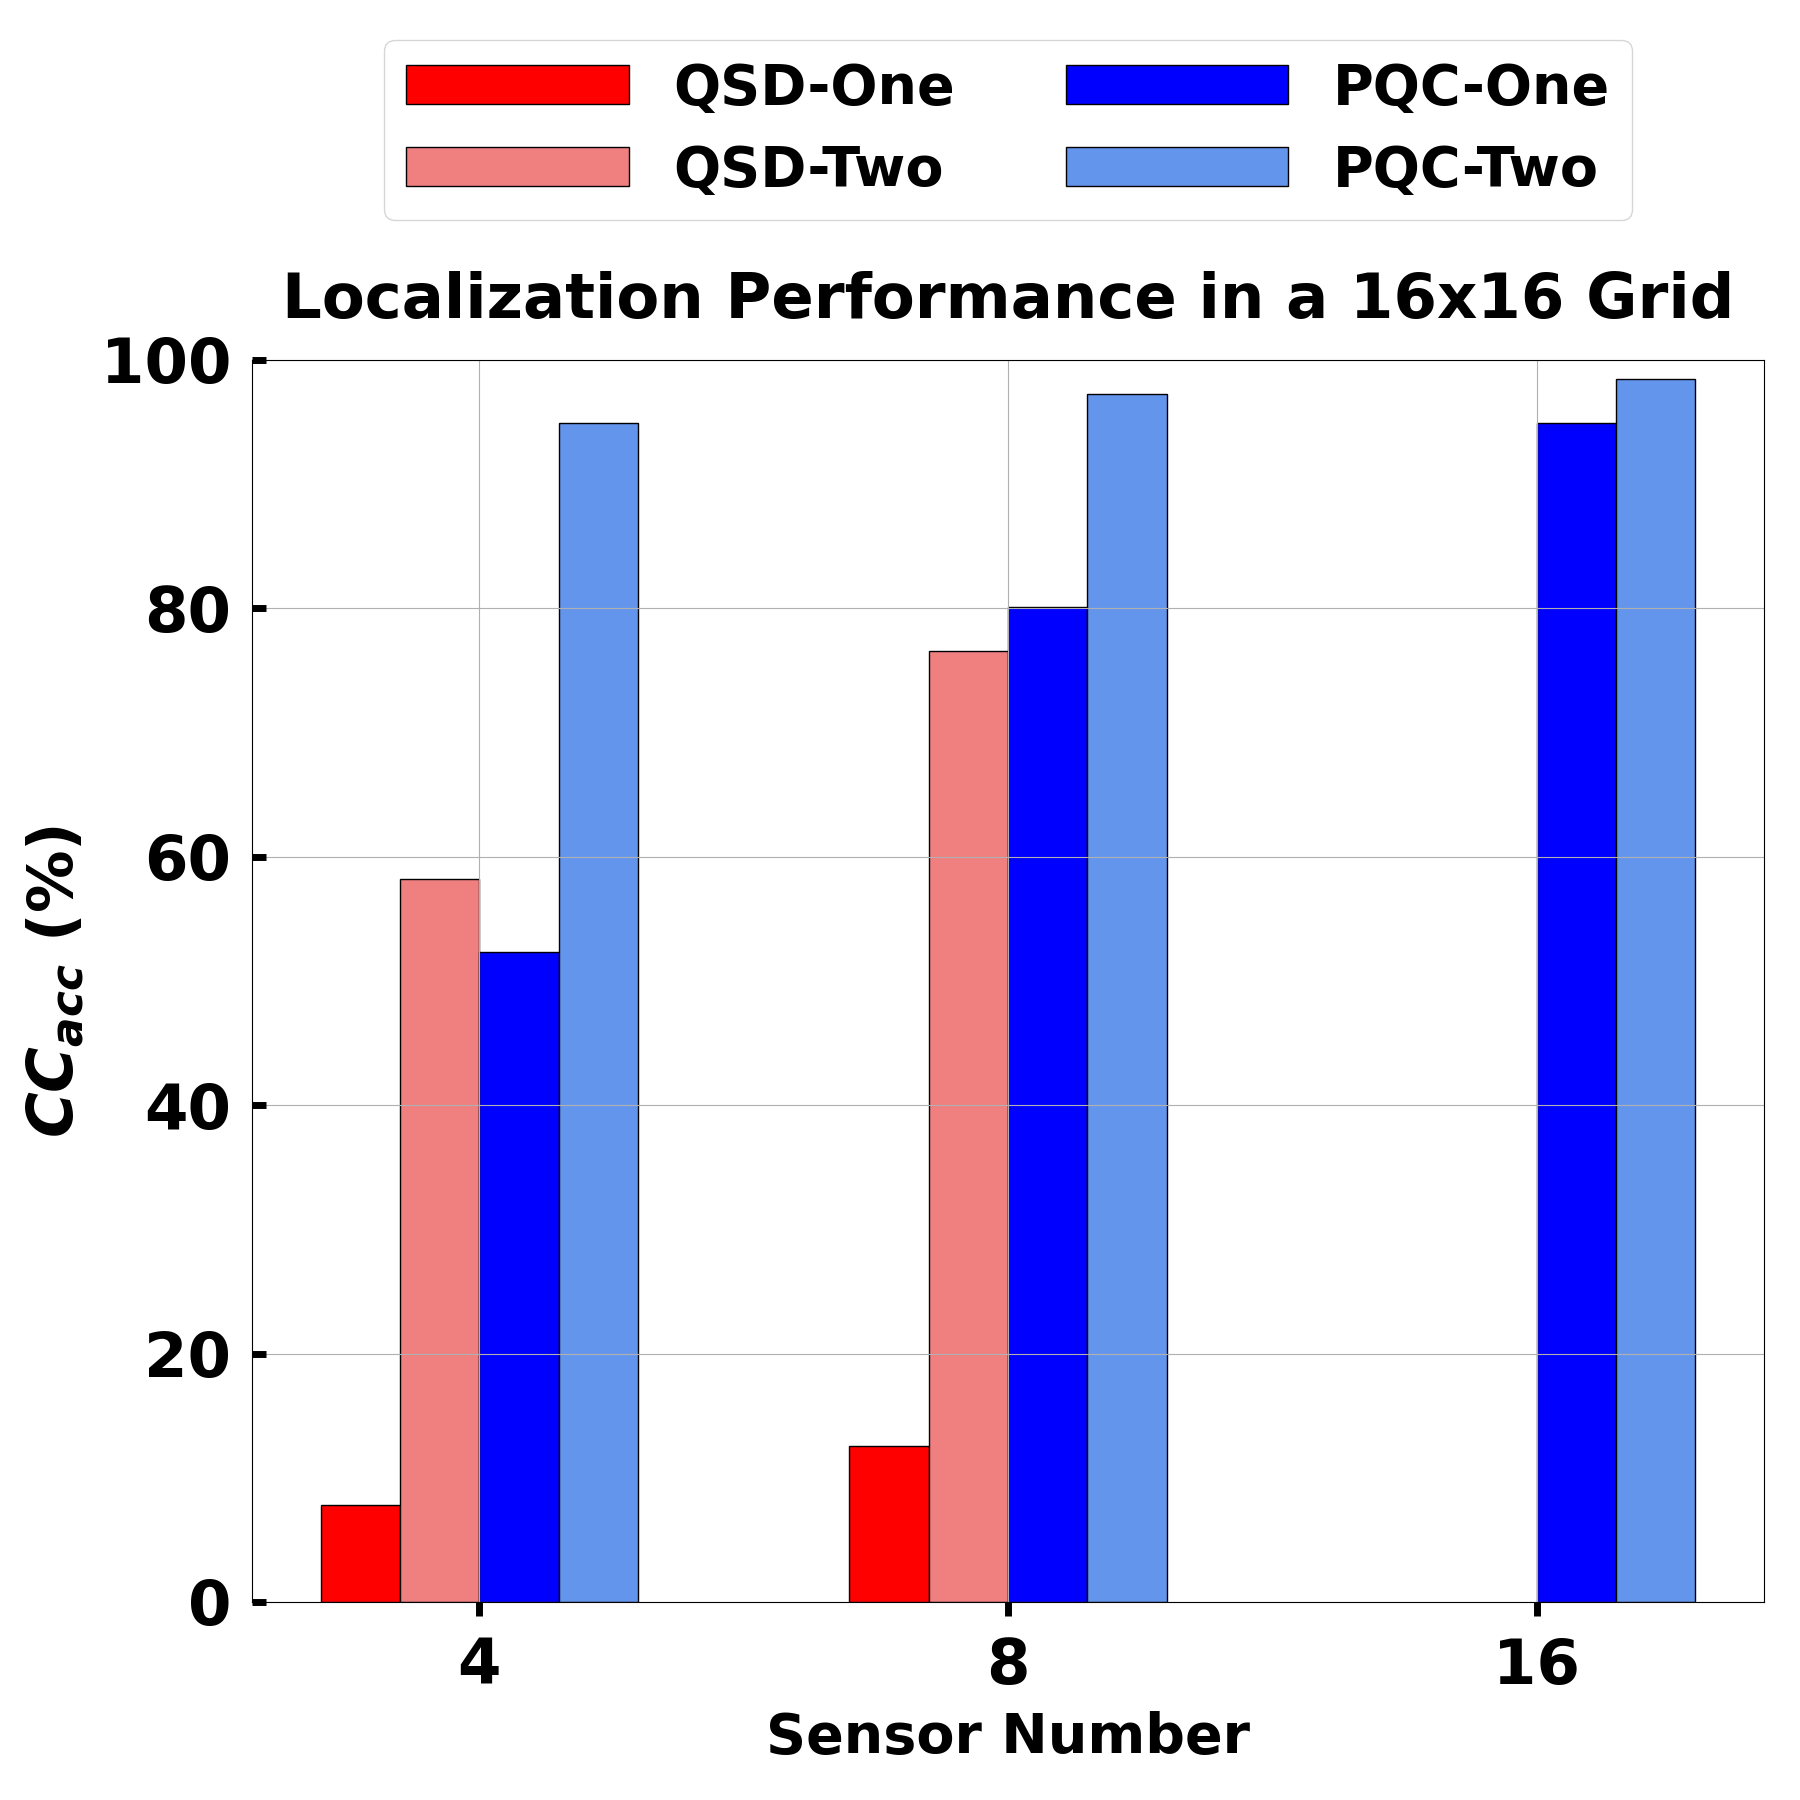
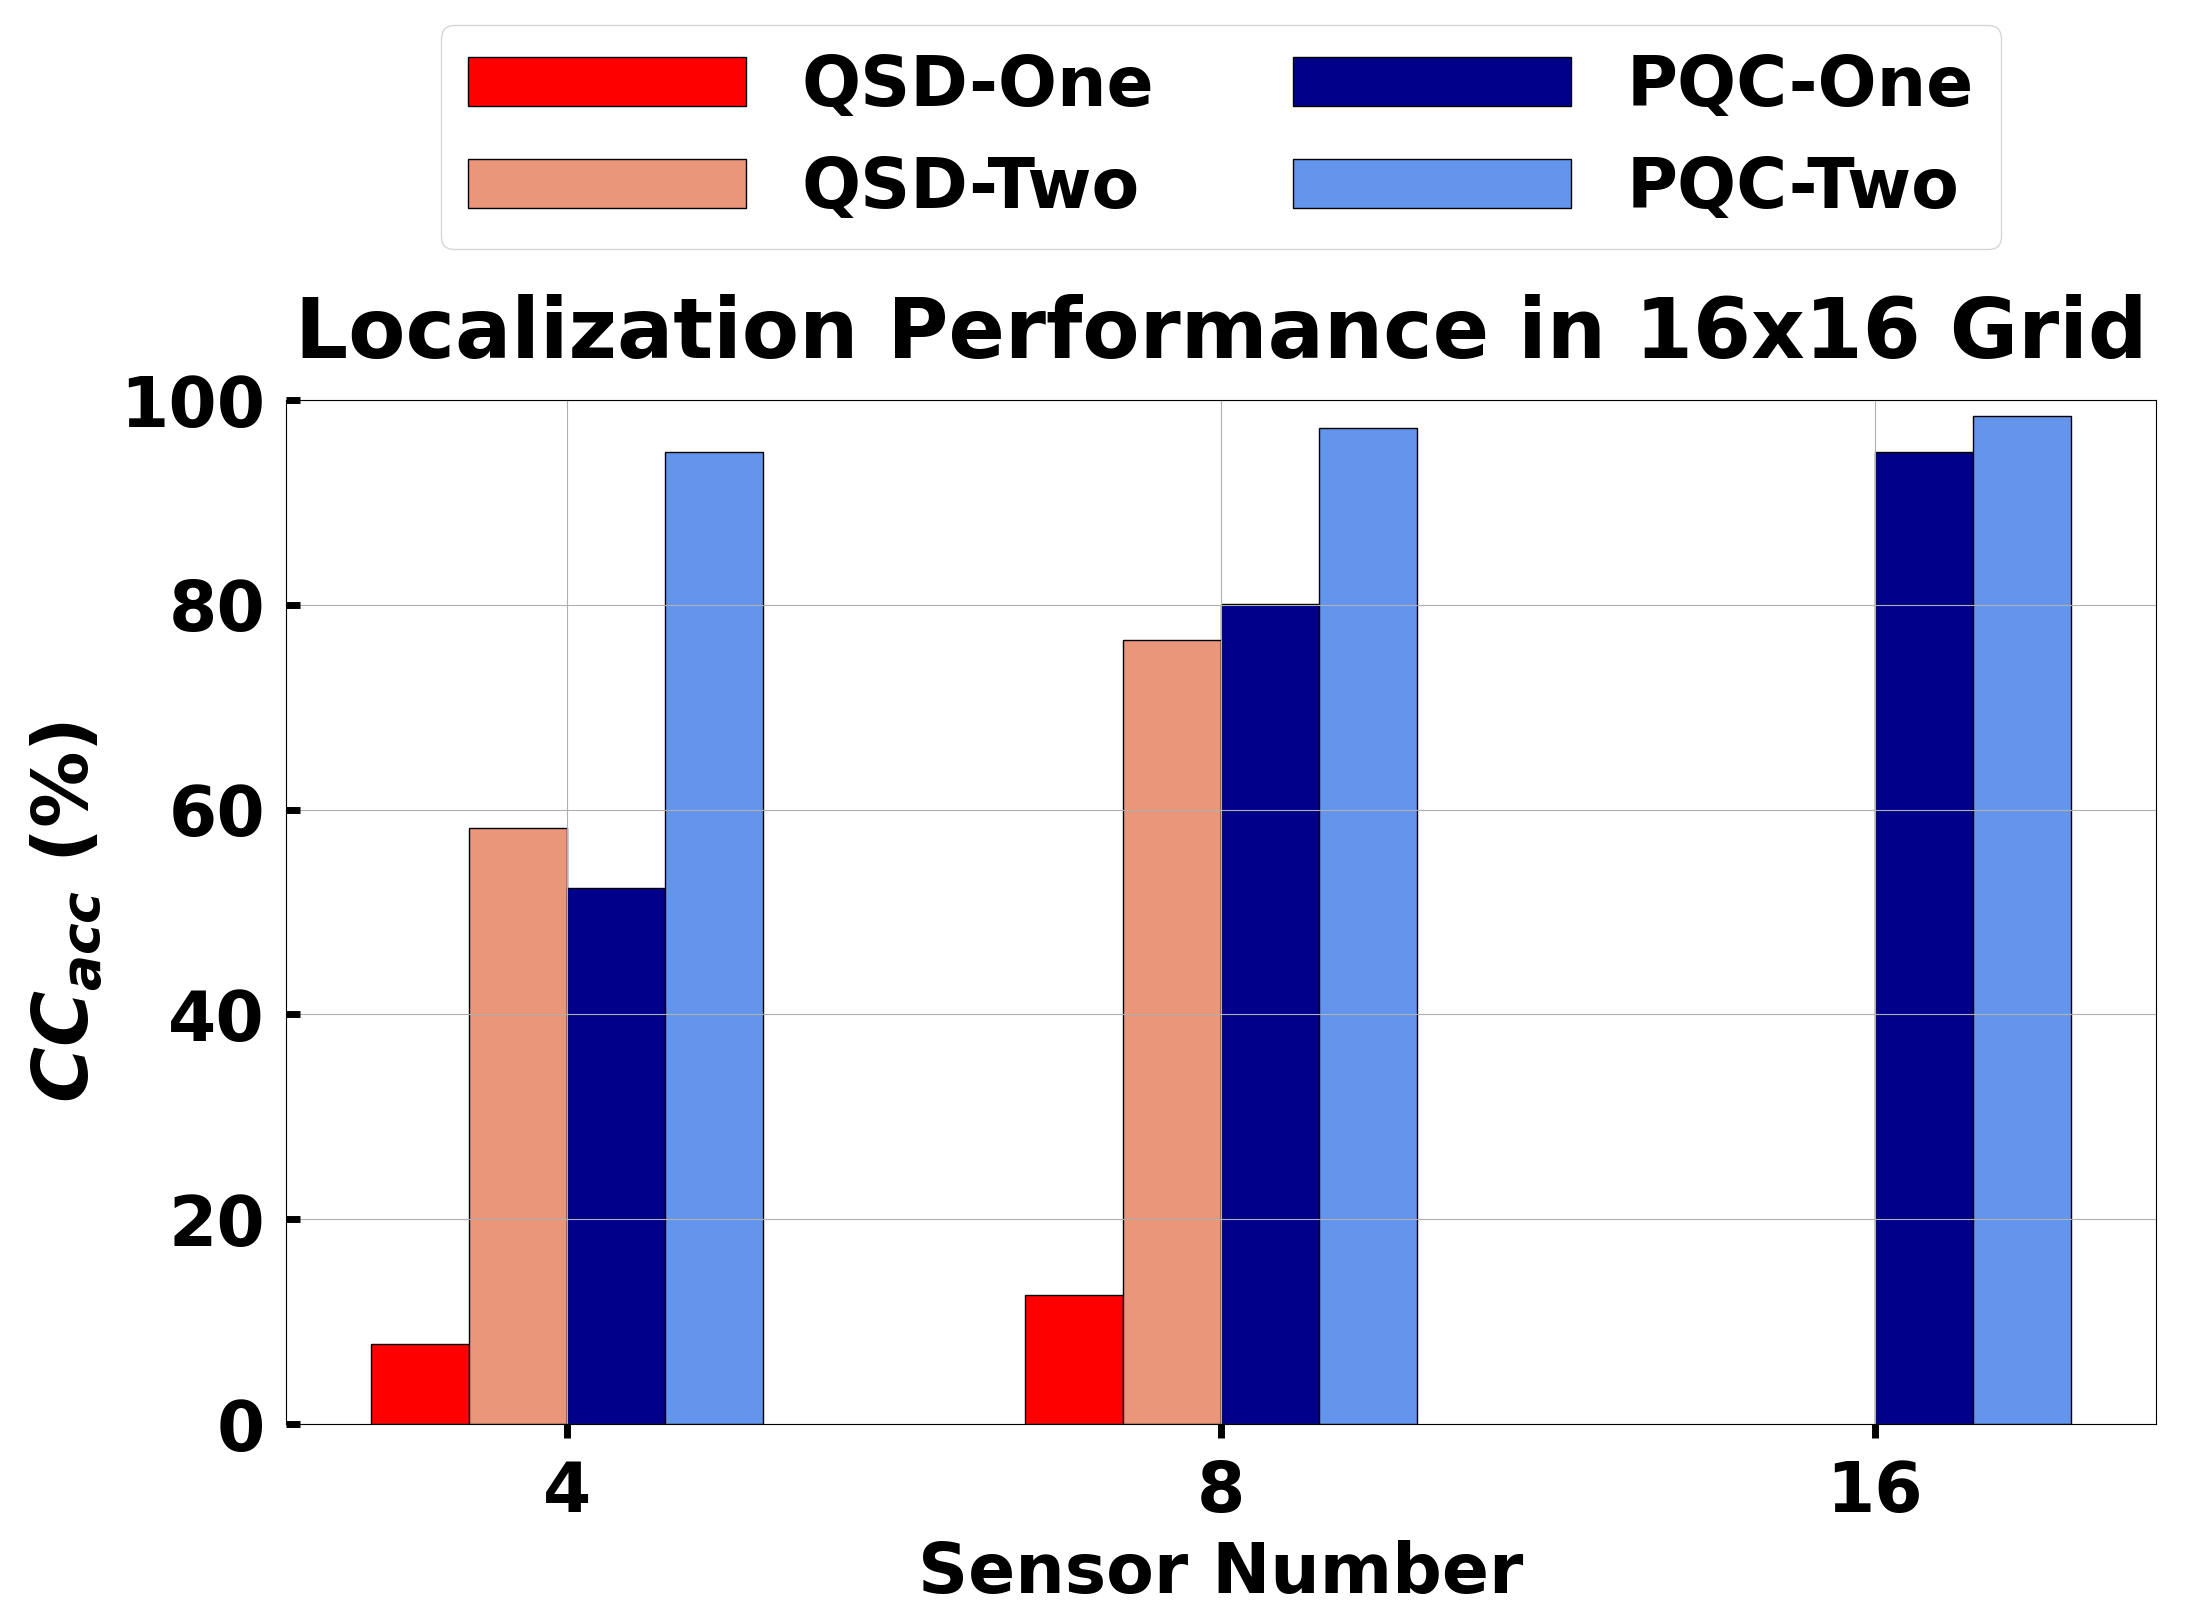
update plots

diff --git a/plot.py b/plot.py
@@ -9,20 +9,20 @@ from utility import Utility
 
 class Plot:
 
-    plt.rcParams['font.size'] = 45
+    plt.rcParams['font.size'] = 50
     plt.rcParams['lines.linewidth'] = 10
     plt.rcParams['lines.markersize'] = 20
     plt.rcParams['font.weight'] = 'bold'
     plt.rcParams['axes.labelweight'] = 'bold'
 
-    METHOD  = ['povmloc-one', 'povmloc',    'qml-r',   'qml-r-two',      'qml-c',   'qml-c-two',      'qml-ibmq_manila',        'qml-two-ibmq_manila']
-    _LEGEND = ['QSD-One',     'QSD-Two',    'PQC-One', 'PQC-Two',        'PQC-One', 'PQC-Two',        'PQC-One (IBM Quantum)', 'PQC-two (IBM Quantum)']
+    METHOD  = ['povmloc-one', 'povmloc',    'qml-r',    'qml-r-two',      'qml-c',    'qml-c-two',     'qml-ibmq_manila',       'qml-two-ibmq_manila']
+    _LEGEND = ['QSD-One',     'QSD-Two',    'PQC-One',  'PQC-Two',        'PQC-One',  'PQC-Two',       'PQC-One (IBM Quantum)', 'PQC-two (IBM Quantum)']
     LEGEND  = dict(zip(METHOD, _LEGEND))
 
-    _COLOR  = ['r',           'lightcoral', 'b',       'cornflowerblue', 'b',       'cornflowerblue', 'green',                 'springgreen']
+    _COLOR  = ['r',           'darksalmon', 'darkblue', 'cornflowerblue', 'darkblue', 'cornflowerblue', 'green',                'springgreen']
     COLOR   = dict(zip(METHOD, _COLOR))
 
-    _LINE   = ['-',           '--',         '-',        '--',            '-',        '--',            '-',                     '--']
+    _LINE   = ['-',           '--',         '-',        '--',             '-',        '--',             '-',                    '--']
     LINE    = dict(zip(METHOD, _LINE))
 
 
@@ -103,15 +103,15 @@ class Plot:
 
         # step 2: plotting
         l_err = "$L_{err}$"
-        fig, ax1 = plt.subplots(1, 1, figsize=(18, 16))
+        fig, ax1 = plt.subplots(1, 1, figsize=(22, 16))
         fig.subplots_adjust(left=0.13, right=0.98, top=0.91, bottom=0.12, wspace=0.13)
         ax1.plot(X_one, povmloc_one, linestyle=Plot.LINE['povmloc-one'], marker='o', label=Plot.LEGEND['povmloc-one'], mec='black', color=Plot.COLOR['povmloc-one'])
         ax1.plot(X_two, povmloc,     linestyle=Plot.LINE['povmloc'], marker='o', label=Plot.LEGEND['povmloc'],     mec='black', color=Plot.COLOR['povmloc'])
         ax1.plot(X_one, qml_r_one,   linestyle=Plot.LINE['qml-r'], marker='o', label=Plot.LEGEND['qml-r'],       mec='black', color=Plot.COLOR['qml-r'])
         ax1.plot(X_two, qml_r_two,   linestyle=Plot.LINE['qml-r-two'], marker='o', label=Plot.LEGEND['qml-r-two'],   mec='black', color=Plot.COLOR['qml-r-two'])
         # ax1
-        ax1.legend(ncol=1, handlelength=4, loc='upper left', fontsize=40)
-        ax1.set_xlabel('Grid Size', labelpad=10, fontsize=40)
+        ax1.legend(ncol=2, handlelength=3, loc='upper left')
+        ax1.set_xlabel('Grid Size', labelpad=25)
         ax1.grid(True)
         X = list(X_one)
         X.remove(9)
@@ -119,11 +119,10 @@ class Plot:
         ax1.set_xticklabels([f'{int(x)}x{int(x)}' for x in X])
         Y = list(range(0, 19, 3))
         ax1.set_yticks(Y)
-        ax1.tick_params(axis='x', pad=15, direction='in', length=10, width=5, labelsize=38, rotation=10)
+        ax1.tick_params(axis='x', pad=15, direction='in', length=10, width=5, labelsize=43)
         ax1.tick_params(axis='y', pad=15, direction='in', length=10, width=5)
-        ax1.set_ylabel(f'{l_err} (m)', labelpad=12)
-        # ax1.set_ylim([0, 40])
-        ax1.set_title(f'Performance of Localization Algorithms', pad=30, fontsize=45, fontweight='bold')
+        ax1.set_ylabel(f'{l_err} (m)', labelpad=15, fontsize=55)
+        ax1.set_title(f'Performance of Localization Algorithms', pad=30, fontweight='bold')
         fig.savefig(figname)
 
 
@@ -202,12 +201,10 @@ class Plot:
         qml_r_two   = arr[:, 4]
         X_one       = arr[:, 0]
 
-        # return
-
         # step 2: plotting
         l_err = "$L_{err}$"
-        fig, ax1 = plt.subplots(1, 1, figsize=(18, 16))
-        fig.subplots_adjust(left=0.14, right=0.98, top=0.91, bottom=0.11, wspace=0.13)
+        fig, ax1 = plt.subplots(1, 1, figsize=(22, 16))
+        fig.subplots_adjust(left=0.13, right=0.98, top=0.91, bottom=0.12, wspace=0.13)
         ind = np.arange(len(X_one))
         width = 0.15
         pos1 = ind - 1.5*width
@@ -219,15 +216,15 @@ class Plot:
         ax1.bar(pos3, qml_r_one,   width=width, edgecolor='black', label=Plot.LEGEND['qml-r'],       color=Plot.COLOR['qml-r'])
         ax1.bar(pos4, qml_r_two,   width=width, edgecolor='black', label=Plot.LEGEND['qml-r-two'],   color=Plot.COLOR['qml-r-two'])
         ax1.grid(True)
-        ax1.legend(ncol=1, handlelength=4, loc='upper right', fontsize=40)
-        ax1.set_xlabel('Sensor Number', labelpad=10, fontsize=40)
+        ax1.legend(ncol=2, handlelength=3, loc='upper right')
+        ax1.set_xlabel('Sensor Number', labelpad=10)
         X = list(X_one)
         ax1.set_xticks(ind)
         ax1.set_xticklabels([f'{int(x)}' for x in X])
         ax1.tick_params(axis='x', pad=15, length=10, width=5)
         ax1.tick_params(axis='y', pad=15, direction='in', length=10, width=5)
-        ax1.set_ylabel(f'{l_err} (m)', labelpad=20)
-        ax1.set_title(f'Localization Performance in a 16x16 Grid', pad=30, fontsize=45, fontweight='bold')
+        ax1.set_ylabel(f'{l_err} (m)', labelpad=20, fontsize=55)
+        ax1.set_title(f'Localization Performance in 16x16 Grid', pad=30, fontweight='bold')
         fig.savefig(figname)
 
 
@@ -253,8 +250,8 @@ class Plot:
             Y, bins, _ = plt.hist(error_list, n_bins, density=True, histtype='step', cumulative=True, label=method)
             method_n_bins.append((method, Y, bins))
         plt.close()
-        fig, ax = plt.subplots(figsize=(18, 16))
-        fig.subplots_adjust(left=0.15, right=0.96, top=0.9, bottom=0.12)
+        fig, ax = plt.subplots(figsize=(22, 16))
+        fig.subplots_adjust(left=0.13, right=0.96, top=0.91, bottom=0.12)
         for method, Y, bins in method_n_bins:
             ax.plot(bins[1:], Y, label=Plot.LEGEND[method], color=Plot.COLOR[method], linestyle=Plot.LINE[method])
         
@@ -262,9 +259,9 @@ class Plot:
         X = list(range(0, 41, 5))
         ax.set_xticks(X)
         ax.set_xticklabels([f'{int(x)}' for x in X])
-        ax.legend(loc='lower right', fontsize=40)
-        ax.set_xlabel('$L_{err}$ (m)', labelpad=20)
-        ax.set_ylabel('Percentage (%)', labelpad=20)
+        ax.legend(ncol=2, handlelength=3, loc='lower right')
+        ax.set_xlabel('$L_{err}$ (m)', labelpad=20, fontsize=55)
+        ax.set_ylabel('Percentage (%)', labelpad=20, fontsize=55)
         Y = np.linspace(0, 1, 6)
         ax.set_yticks(Y)
         ax.set_yticklabels([int(y*100) for y in Y])
@@ -272,7 +269,7 @@ class Plot:
         ax.set_xlim([0, 40])
         ax.tick_params(axis='x', pad=15, direction='in', length=10, width=5)
         ax.tick_params(axis='y', pad=15, direction='in', length=10, width=5)
-        ax.set_title('Cumulative Distribution Function of $L_{err}$', pad=30, fontsize=45, fontweight='bold')
+        ax.set_title('Cumulative Distribution Function of $L_{err}$', pad=30, fontweight='bold')
         fig.savefig(figname)
 
 
@@ -362,26 +359,26 @@ class Plot:
         X_two     = arr[:, 0]
 
         # step 2: plotting
-        fig, ax1 = plt.subplots(1, 1, figsize=(18, 16))
-        fig.subplots_adjust(left=0.15, right=0.98, top=0.91, bottom=0.12, wspace=0.13)
+        fig, ax1 = plt.subplots(1, 1, figsize=(22, 16))
+        fig.subplots_adjust(left=0.13, right=0.98, top=0.91, bottom=0.12, wspace=0.13)
         ax1.plot(X_one, povmloc_one, linestyle=Plot.LINE['povmloc-one'], marker='o', label=Plot.LEGEND['povmloc-one'], mec='black', color=Plot.COLOR['povmloc-one'])
         ax1.plot(X_two, povmloc,     linestyle=Plot.LINE['povmloc'], marker='o', label=Plot.LEGEND['povmloc'],     mec='black', color=Plot.COLOR['povmloc'])
         ax1.plot(X_one, qml_c_one,   linestyle=Plot.LINE['qml-c'], marker='o', label=Plot.LEGEND['qml-c'],       mec='black', color=Plot.COLOR['qml-c'])
         ax1.plot(X_two, qml_c_two,   linestyle=Plot.LINE['qml-c-two'], marker='o', label=Plot.LEGEND['qml-c-two'],   mec='black', color=Plot.COLOR['qml-c-two'])
         # ax1
-        ax1.legend(ncol=1, handlelength=4, loc='lower left', fontsize=40)
-        ax1.set_xlabel('Grid Size', labelpad=10, fontsize=40)
+        ax1.legend(ncol=2, handlelength=3, loc='lower left')
+        ax1.set_xlabel('Grid Size', labelpad=25)
         ax1.grid(True)
         X = list(X_one)
         X.remove(9)
         ax1.set_xticks(X)
         ax1.set_xticklabels([f'{int(x)}x{int(x)}' for x in X])
-        ax1.tick_params(axis='x', pad=15, direction='in', length=10, width=5, labelsize=38, rotation=10)
+        ax1.tick_params(axis='x', pad=15, direction='in', length=10, width=5, labelsize=43)
         ax1.tick_params(axis='y', pad=15, direction='in', length=10, width=5)
         CC_acc = "$CC_{acc}$"
-        ax1.set_ylabel(f'{CC_acc} (%)', labelpad=10)
+        ax1.set_ylabel(f'{CC_acc} (%)', labelpad=10, fontsize=55)
         ax1.set_ylim([0, 101.5])
-        ax1.set_title(f'Performance of Localization Algorithms', pad=30, fontsize=45, fontweight='bold')
+        ax1.set_title(f'Performance of Localization Algorithms', pad=30, fontweight='bold')
         fig.savefig(figname)
 
 
@@ -459,8 +456,8 @@ class Plot:
         X_one       = arr[:, 0]
 
         # step 2: plotting
-        fig, ax1 = plt.subplots(1, 1, figsize=(18, 18))
-        fig.subplots_adjust(left=0.14, right=0.98, top=0.8, bottom=0.11, wspace=0.13)
+        fig, ax1 = plt.subplots(1, 1, figsize=(22, 16))
+        fig.subplots_adjust(left=0.13, right=0.98, top=0.75, bottom=0.11, wspace=0.13)
         ind = np.arange(len(X_one))
         width = 0.15
         pos1 = ind - 1.5*width
@@ -472,8 +469,8 @@ class Plot:
         ax1.bar(pos3, qml_r_one,   width=width, edgecolor='black', label=Plot.LEGEND['qml-c'],       color=Plot.COLOR['qml-c'])
         ax1.bar(pos4, qml_r_two,   width=width, edgecolor='black', label=Plot.LEGEND['qml-c-two'],   color=Plot.COLOR['qml-c-two'])
         ax1.grid(True)
-        ax1.legend(ncol=2, handlelength=4, loc='upper center', fontsize=40, bbox_to_anchor=(0.5, 1.28))
-        ax1.set_xlabel('Sensor Number', labelpad=10, fontsize=40)
+        ax1.legend(ncol=2, handlelength=4, loc='upper center', bbox_to_anchor=(0.5, 1.4))
+        ax1.set_xlabel('Sensor Number', labelpad=10)
         X = list(X_one)
         ax1.set_xticks(ind)
         ax1.set_xticklabels([f'{int(x)}' for x in X])
@@ -481,8 +478,8 @@ class Plot:
         ax1.tick_params(axis='y', pad=15, direction='in', length=10, width=5)
         CC_acc = "$CC_{acc}$"
         ax1.set_ylim([0, 100])
-        ax1.set_ylabel(f'{CC_acc} (%)', labelpad=10)
-        ax1.set_title(f'Localization Performance in a 16x16 Grid', pad=30, fontsize=45, fontweight='bold')
+        ax1.set_ylabel(f'{CC_acc} (%)', labelpad=10, fontsize=55)
+        ax1.set_title(f'Localization Performance in 16x16 Grid', pad=30,fontweight='bold')
         fig.savefig(figname)
 
 
@@ -579,19 +576,20 @@ def runtime():
 
 if __name__ == '__main__':
 
-    # continuous_varygrid()
-    # continuous_varysensornum()
-    # localization_error_cdf()
+    continuous_varygrid()
+    continuous_varysensornum()
+    localization_error_cdf()
+    
+    discrete_varygrid()
+    discrete_varysensornum()
+    
+
+    # IBM    
     # continuous_varygrid_ibm()
     # localization_error_cdf_ibm()
-
-    discrete_varygrid()
-    # discrete_varysensornum()
     # discrete_varygrid_ibm()
 
 
-
-    # runtime()
 
 
 '''
@@ -633,6 +631,10 @@ Plot 2 -- continuous, fix grid size (16x16), all four methods, vary sensor
 
 Plot 3 -- continuous, error cdf
 
+method=povmloc-one, avg. error = 17.072553359683795, error std. = 12.614378742585068
+method=qml-r, avg. error = 8.527061522237194, error std. = 6.412694578444155
+method=povmloc, avg. error = 8.295051587301588, error std. = 12.750257170815887
+method=qml-r-two, avg. error = 4.8663696730640265, error std. = 7.507464855699436
 
 
 Plot 4 -- discrete, sensor=8, vary grid length, all four methods
@@ -668,13 +670,35 @@ Plot 5 -- discrete, grid length = 16, vary sensor, all four methods
               8       0.12549     0.765625  0.800781     0.972656
              16     nan         nan         0.949219     0.984375
 
+'''
 
+'''
              
-IBM -- CDF
+IBM Quantum Computer (not included in the paper)
 
-method=qml-noise=False, avg. error = 16.236119791666667, error std. = 5.907658642532727
-method=qml-noise=True, avg. error = 14.028208333333334, error std. = 6.785758629316787
+Plot 6 -- continous, onelevel
+  Grid Length    qml-r    qml-ibmq_manila
+-------------  -------  -----------------
+            2  1.67699            7.04915
+            3  2.04788            9.60601
+            4  3.30292           14.6689
+
+            
+Plot 7 -- continuous, CDF
+
 method=qml-r, avg. error = 3.3029218749999996, error std. = 3.069722834451804
+method=qml-ibmq_manila, avg. error = 14.66892670157068, error std. = 6.142534062312493
+method=qml-r-two, avg. error = 1.4385000000000001, error std. = 1.0174240041234857
+method=qml-two-ibmq_manila, avg. error = 16.723170454545457, error std. = 7.916616873446968
+
+
+Plot 8 -- discrete, onelevel
+
+  Grid Length    qml-c    qml-ibmq_manila
+-------------  -------  -----------------
+            2        1           1
+            3        1           0.585859
+            4        1           0.395833
 
 
 '''
